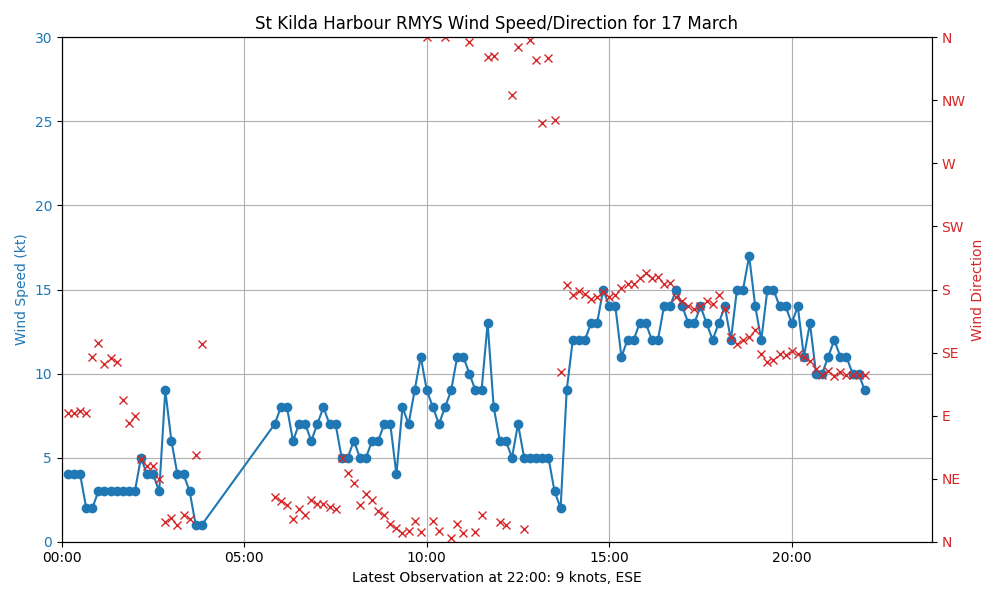
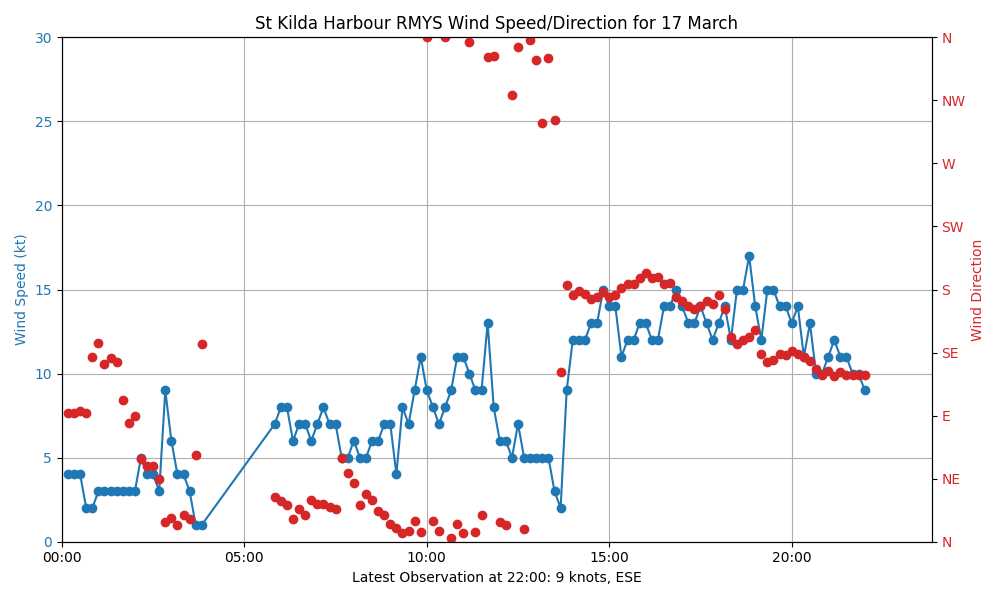
chart update

diff --git a/graph48.py b/graph48.py
@@ -101,7 +101,7 @@ def generate_and_save_plot(data, save_dir):
         ax2 = ax1.twinx()
         color = 'tab:red'
         ax2.set_ylabel('Wind Direction', color=color)
-        ax2.plot(df['Time'], df['Wind Direction (degrees)'], marker='0', linestyle='', color=color)
+        ax2.plot(df['Time'], df['Wind Direction (degrees)'], marker='o', linestyle='', color=color)
         ax2.tick_params(axis='y', labelcolor=color)
 
         # Set x-axis limits
